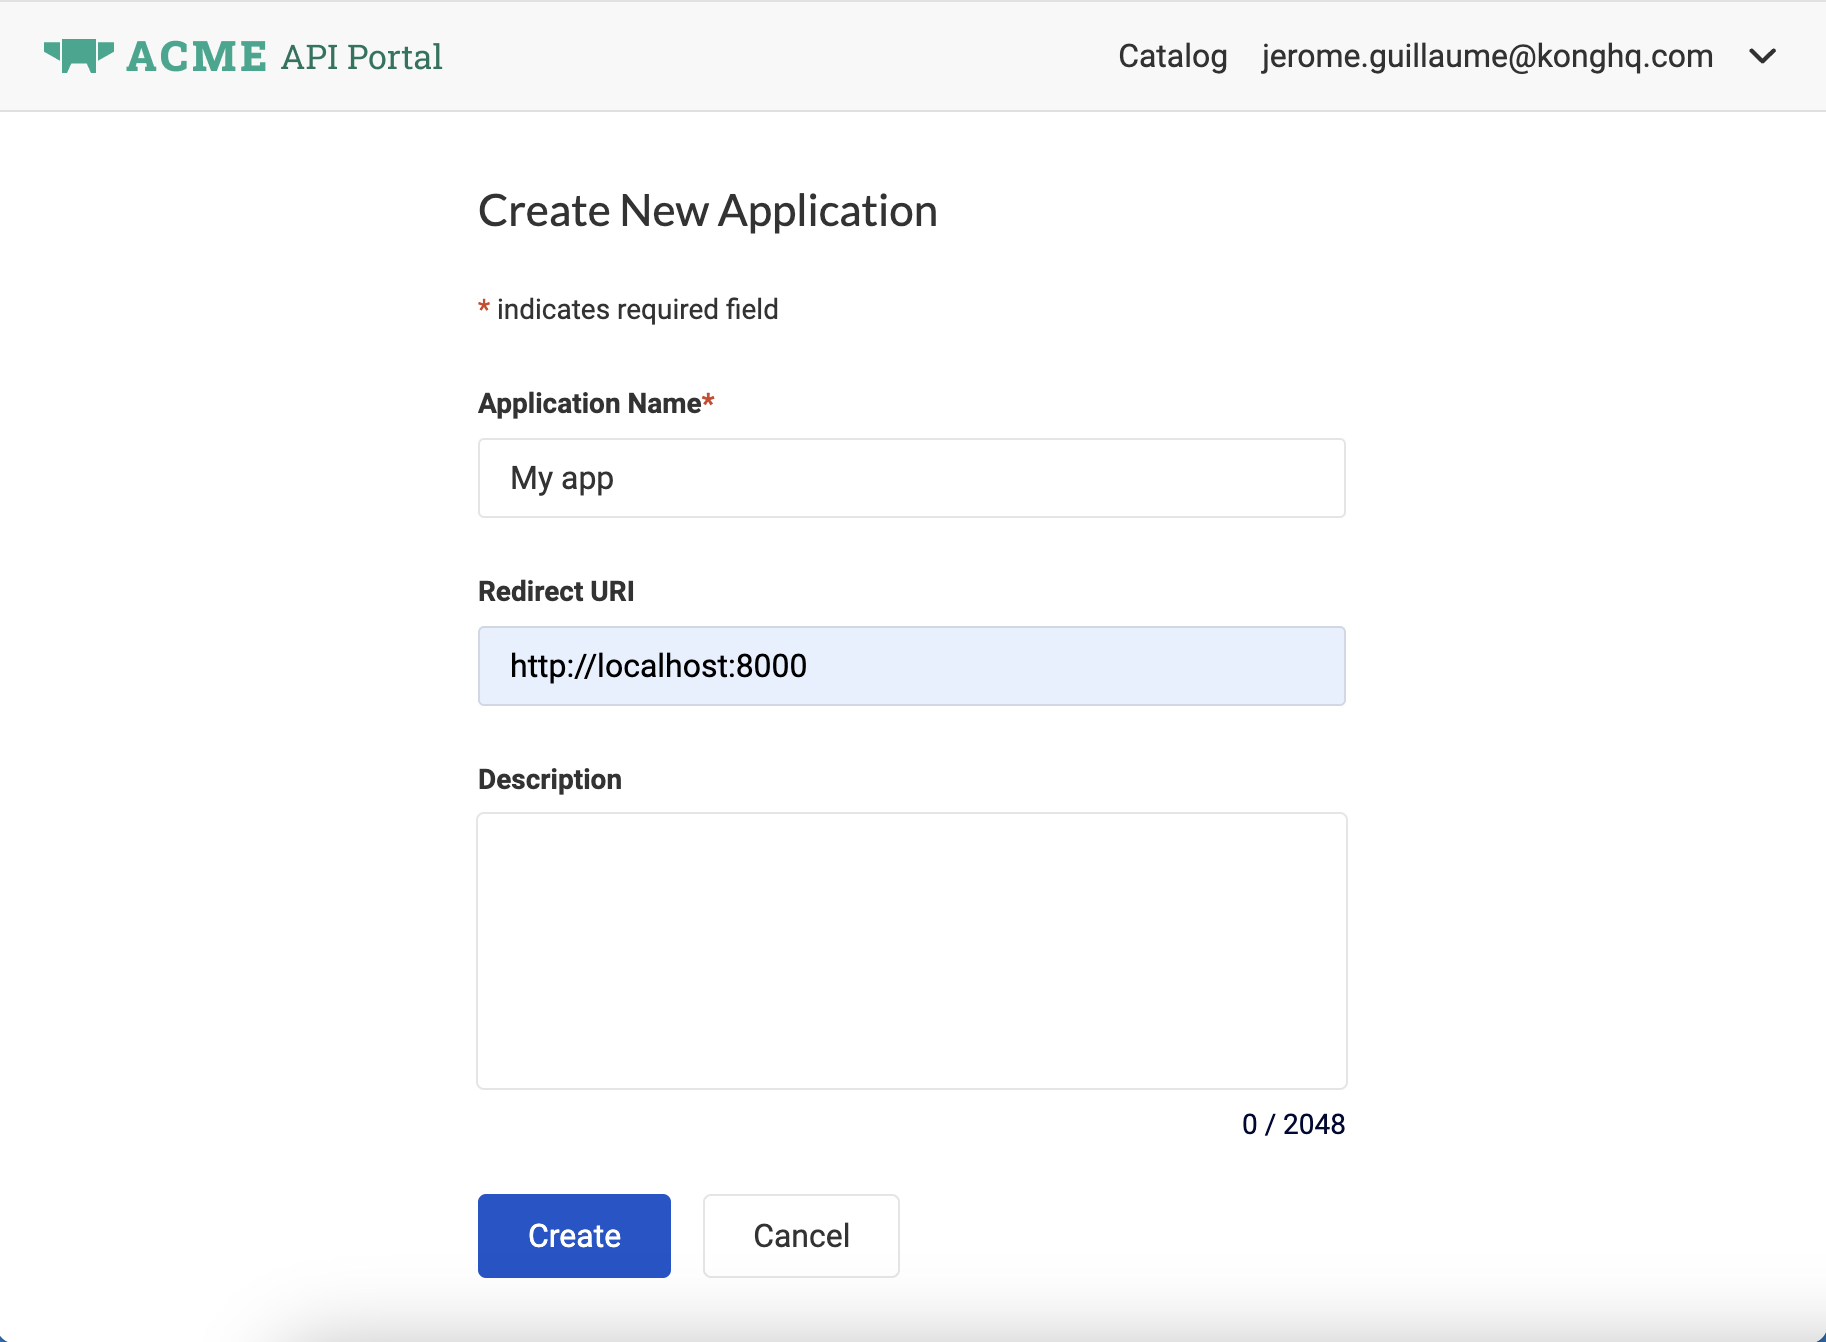
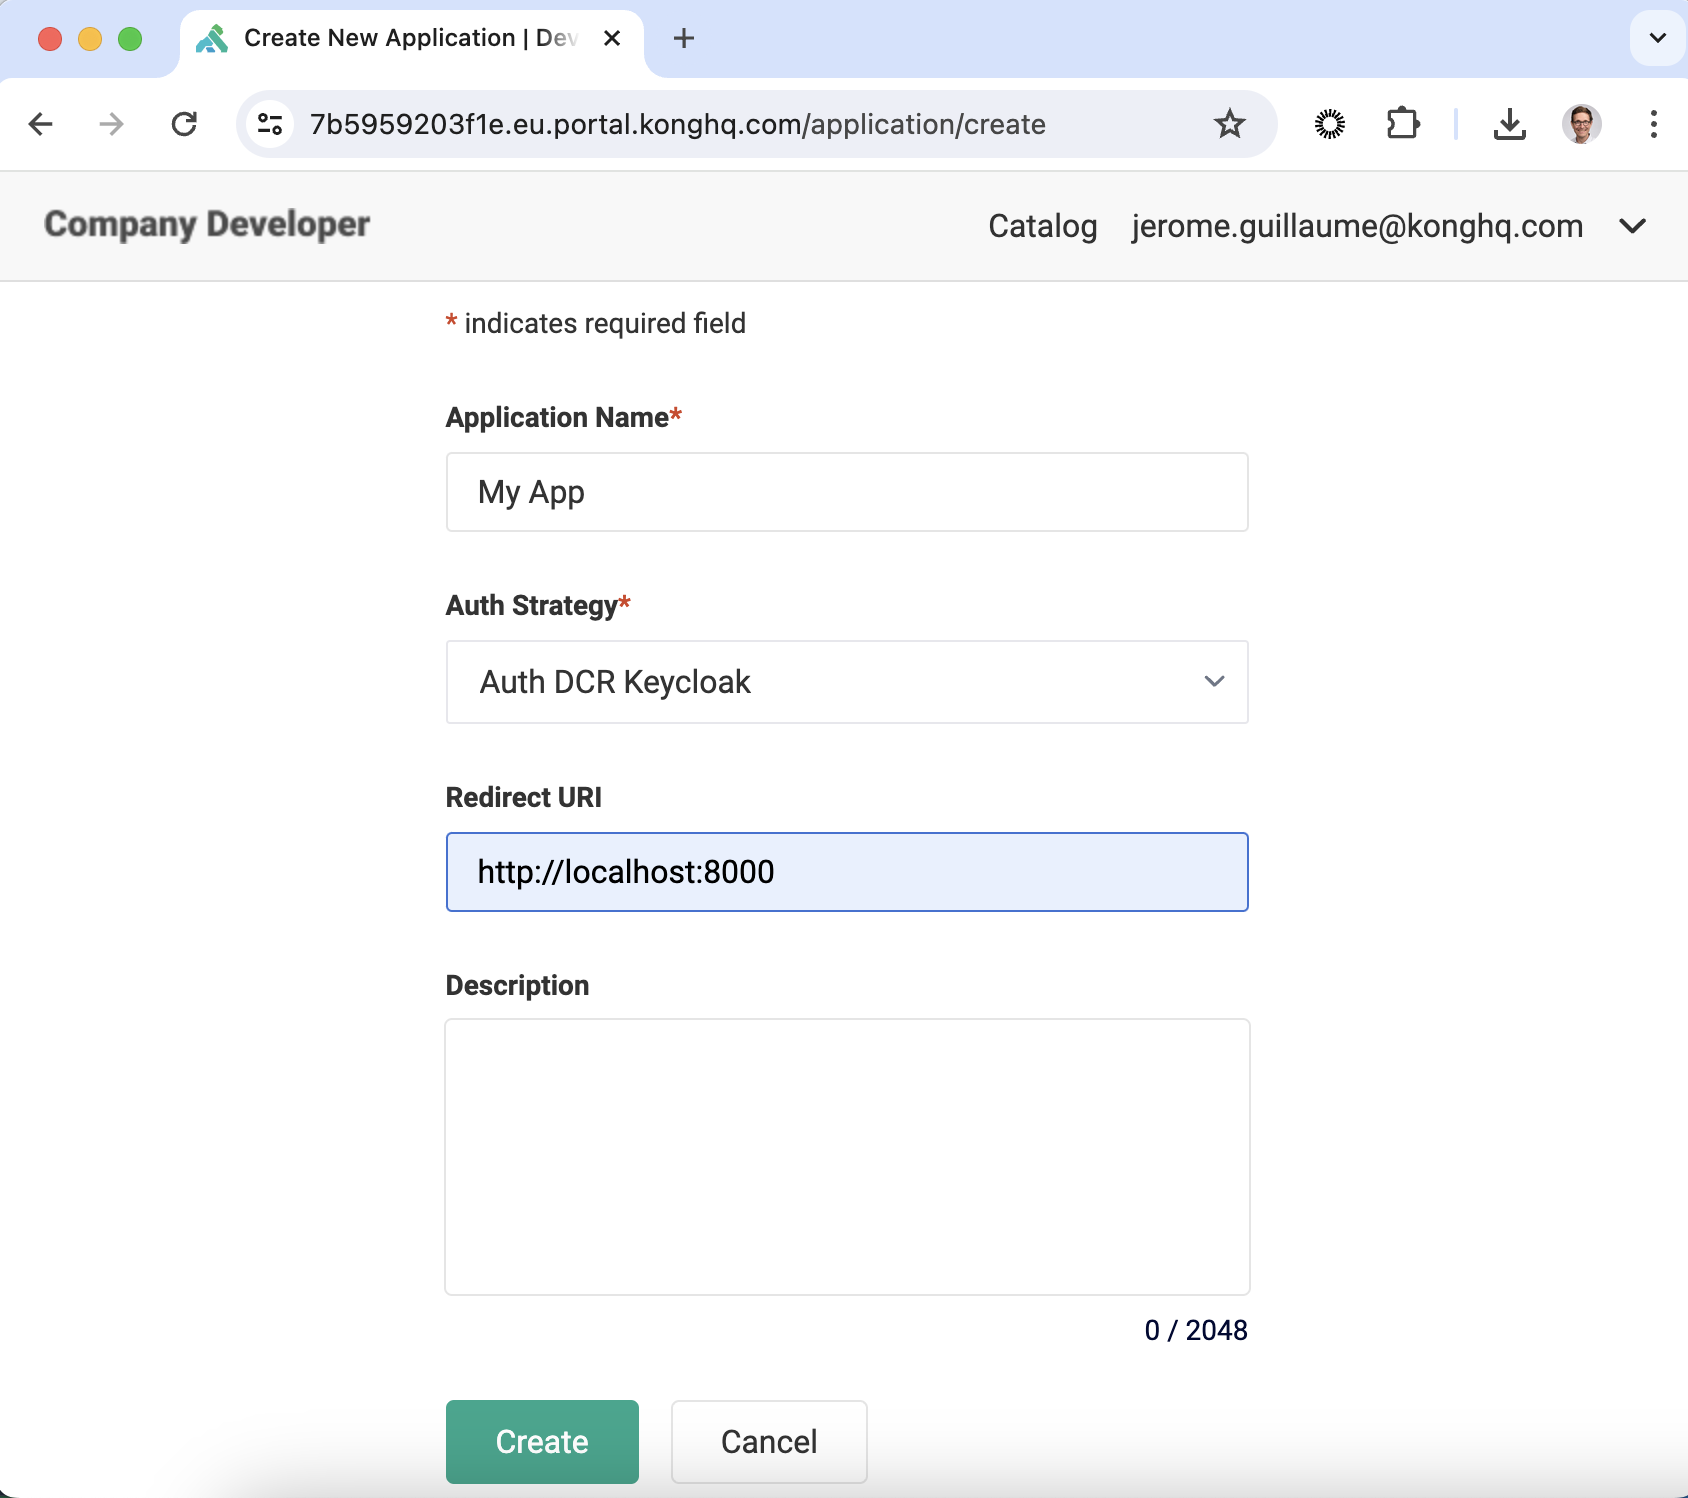
New Auth Strategy

diff --git a/README.md b/README.md
@@ -34,7 +34,7 @@ The properties are:
       - `view-clients`
 ![Alt text](/images/2-keycloak-kong-sa.png?raw=true "kong-sa - Client Service Account")
 
-### Lambda function (first steps)
+### Lambda function
 1) Create the Function
   - Connect to the AWS Console
   - Select the proper region (for instance `eu-central-1`)
@@ -53,34 +53,56 @@ The properties are:
     - KEYCLOAK_CLIENT_SECRET = `<kong-sa-client_secret-to-be-replaced>`
     - KEYCLOAK_CR_INITIAL_AT = `<initial_at-to-be-replaced>` (see step#1 - Keycloak configuration)
     - KEYCLOAK_DOMAIN = `<keycloak-domain-to-be-replaced>` (example: https://sso.apim.eu:8443/auth/realms/Jerome/)
+    - KONG_API_TOKENS = `<your_Konnect_API_Key_value>` Put a random strong key value
 
-**Click on Save**
+    **Click on Save**
 
-See the Function URL (here: https://3w7r6pdhh6rgn7iia7sqotrdxm0hrspz.lambda-url.eu-west-3.on.aws/)
+See the Bridge Function URL (here: https://3w7r6pdhh6rgn7iia7sqotrdxm0hrspz.lambda-url.eu-west-3.on.aws/)
 ![Alt text](/images/3-AWS-Lambda-function.png?raw=true "AWS Lambda - creation")
 
 ### Konnect Dev Portal configuration
 1) Have a Kong Konnect account
   - You can Start a Free trial at: [konghq.com](https://konghq.com/products/kong-konnect/register)
 2) Login to konnect
-3) Select Dev Portal / Settings / Application Setup menu and configure with:
-  - External identity provider for applications = `HTTP`
-  - Issuer = `<keycloak-domain-to-be-replaced>`
-  - HTTP Base URL = `<AWS_Function_url-to-be-replaced>`
+3) Select Dev Portal / Application Auth menu, select DCR Providers tab, click on `+ New DCR Provider` and configure with:
+  - Name = `DCR Keycloak`
+  - Issuer URL = `<keycloak-domain-to-be-replaced>`
+  - Provider Type = `HTTP`
+  - DCR Base URL = `<Bridge_Function_url-to-be-replaced>`
+  - API Key = `<your_Konnect_API_Key_value>` Put the same vlue defined above
+  
+    **Click on Save**
+![Alt text](/images/4a-Konnect-New-DCR-Provider.png?raw=true "Konnect Dev Portal configuration - New DCR Provider")
+
+4) Select Dev Portal / Application Auth menu, click on `+ New Auth Strategy` and configure with:
+  - Name = `Auth DCR Keycloak`
+  - Display Name = `Auth DCR Keycloak`
+  - Auth Type = `DCR`
+  - DCR Provider = `DCR Keycloak`
   - Scopes = `openid`
-  - Consumer claims = `clientId`
-  - Auth methods = check `Bearer Access Token` and `Client Credentials Grant`
-  - DCR Token = click on `Generate Token` and **store the DCR token**
+  - Credential Claims = `clientId`
+  - Auth Method = `bearer` and `client_credentials`
+    
+    **Click on Save**
 
-**Click on Save**
-![Alt text](/images/4-Konnect-Application-setup.png?raw=true "Konnect Dev Portal configuration")
+![Alt text](/images/4b-Konnect-New-Auth.png?raw=true "Konnect Dev Portal configuration - New Auth Strategy")
 
-### Lambda function (last step)
-1) Open the Function
-  - Open `Configuration`/`Environment variables` and Edit:
-    - KONG_API_TOKENS = `<DCR_token-to-be-replaced>` (see step#3 - Konnect Dev Portal configuration)
+4) Select API Products menu, click on `+ API Product` and configure with:
+  - Product Name = `Test`
 
-**Click on Save**
+    **Click on Save**
+![Alt text](/images/4c-Konnect-New-API-Product.png?raw=true "Konnect Dev Portal configuration - New API Product")
+5) Select Product Versions menu, click on `+ New Version` and configure with:
+  - Product Version Name = `v1`
+
+    **Click on Save**
+6) Update the `unpublished` Status to `published` and check `Publish API Product` and **Click on Save**
+7) Update the `disabled` App Registration to `enabled` with:
+  - Auth Strategy = `Auth DCR Keycloak`
+  - App Registration Enabled
+  
+    **Click on Save**
+![Alt text](/images/4d-Konnect-App-Registration.png?raw=true "Konnect Dev Portal configuration - Edit App Registration")
 
 ### S3 Bucket
 - Create a S3 bucket and call it for instance `konnect-portal-dcr-keycloak`
